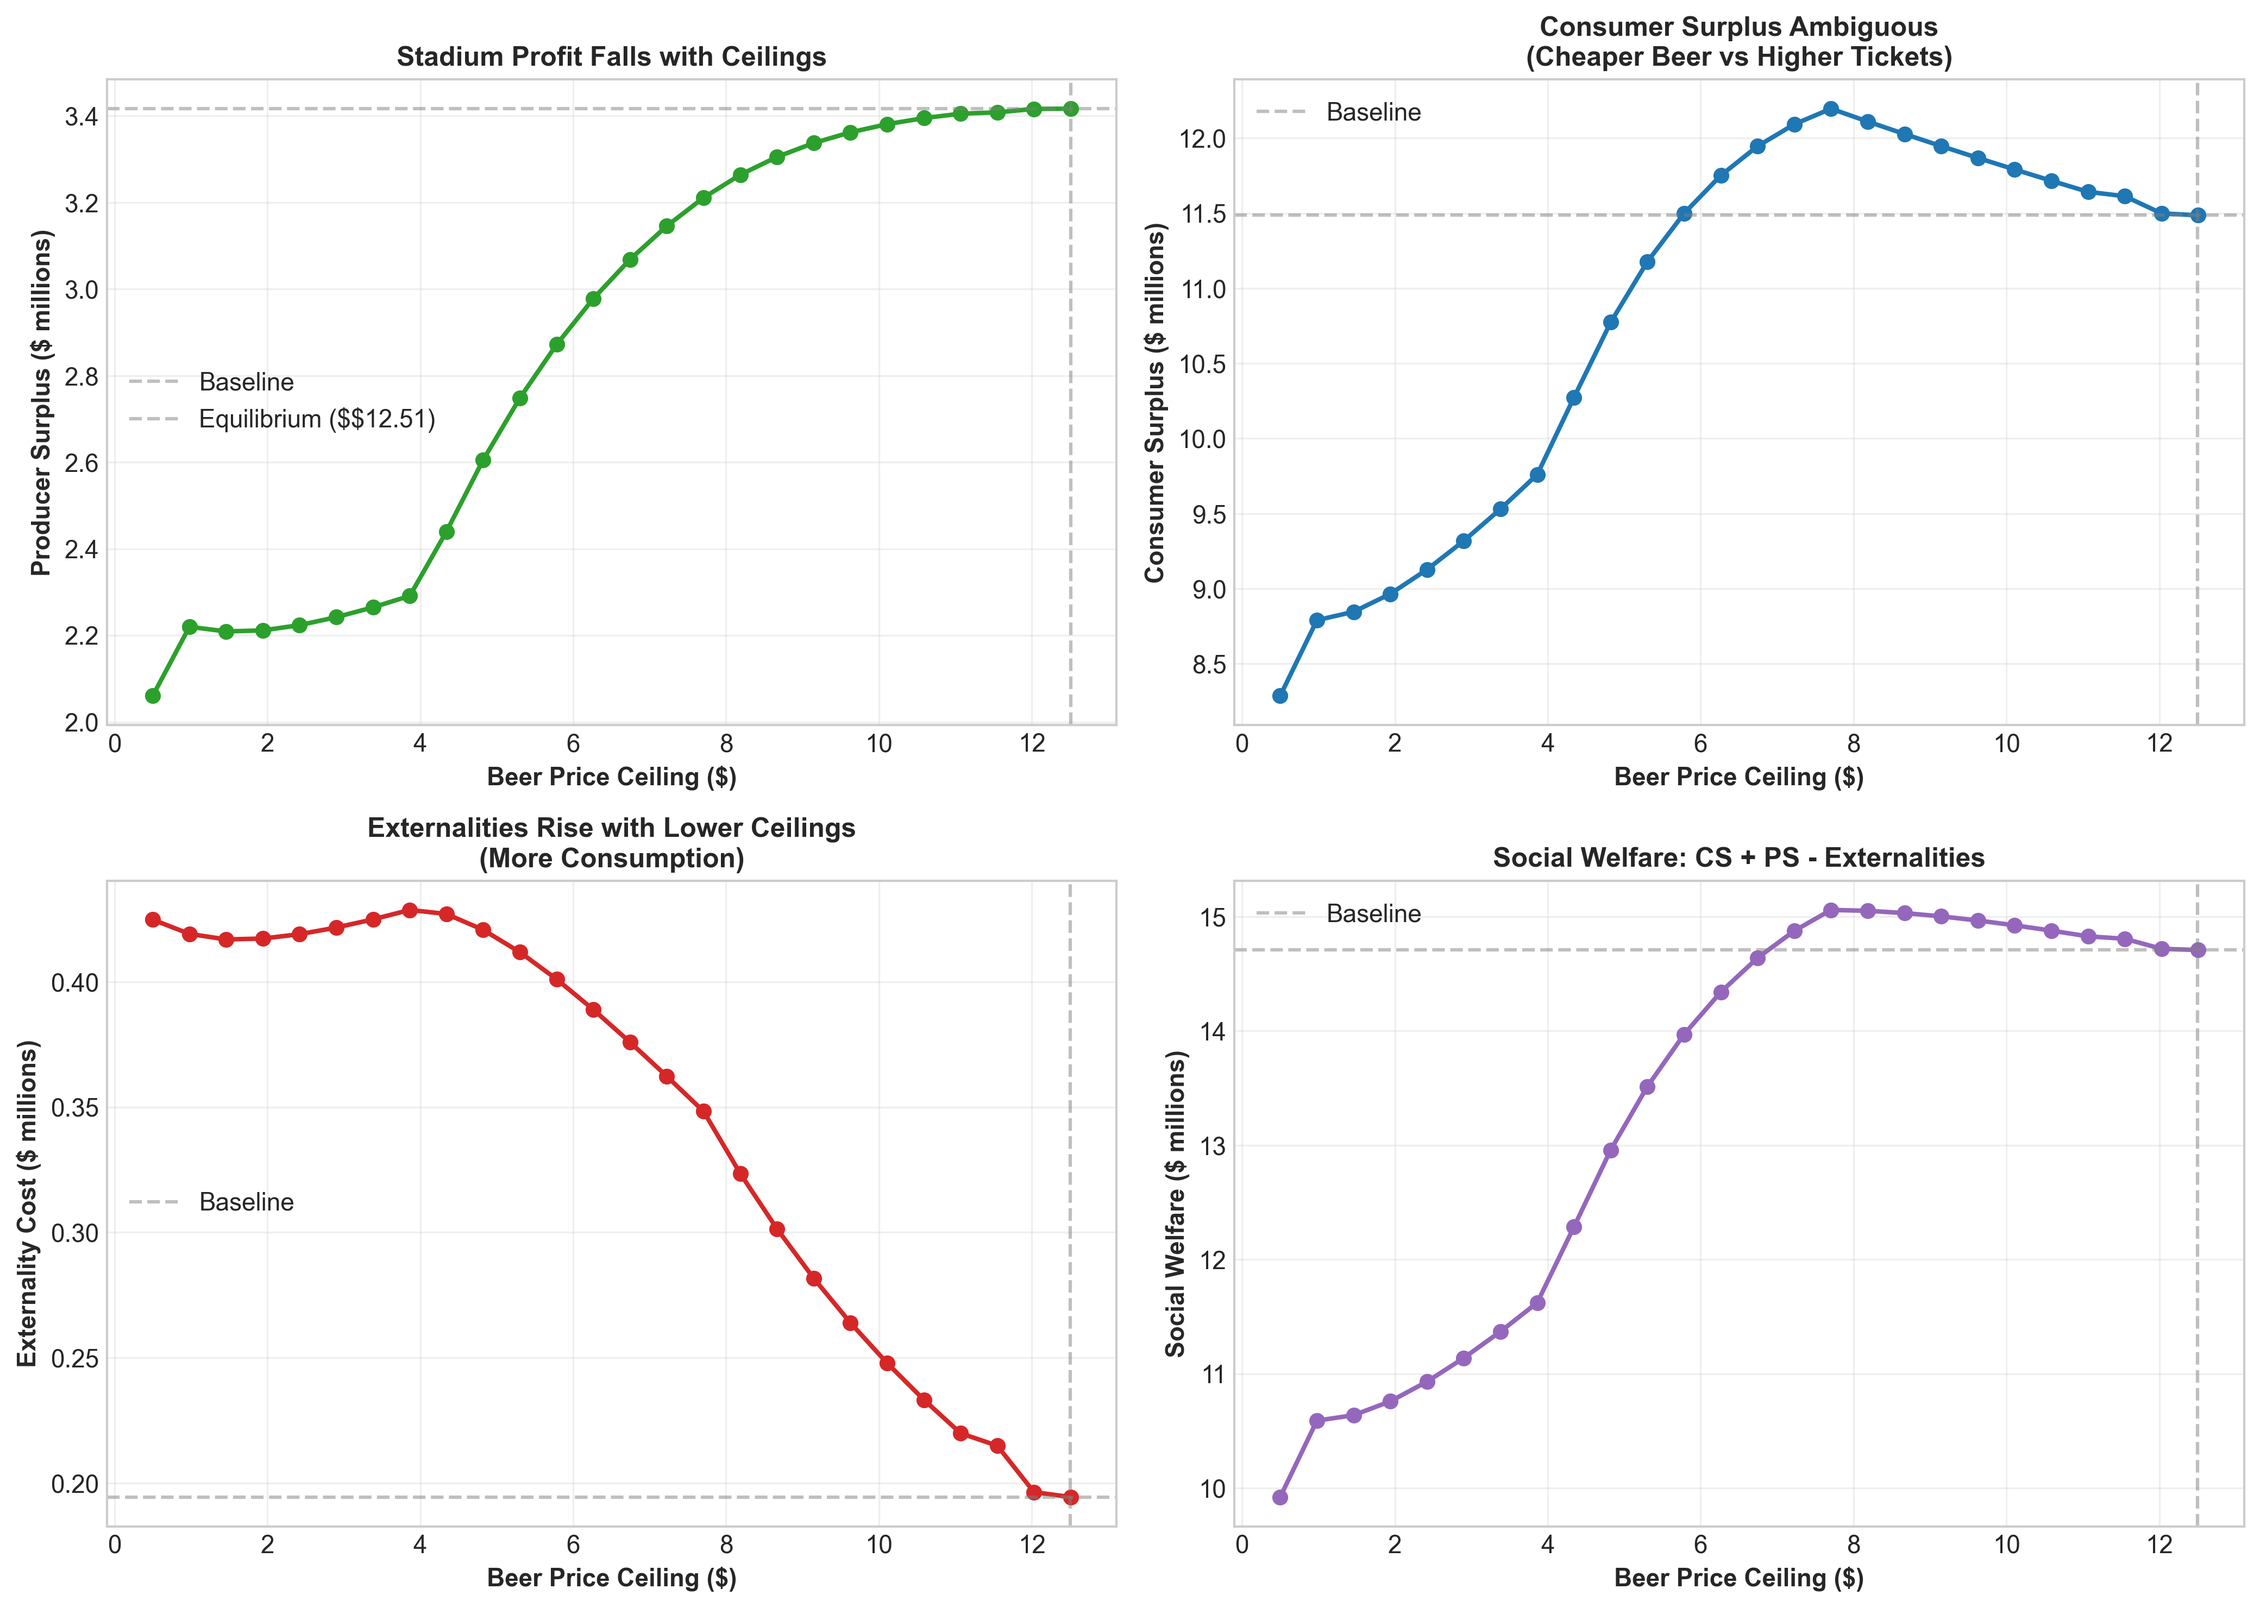
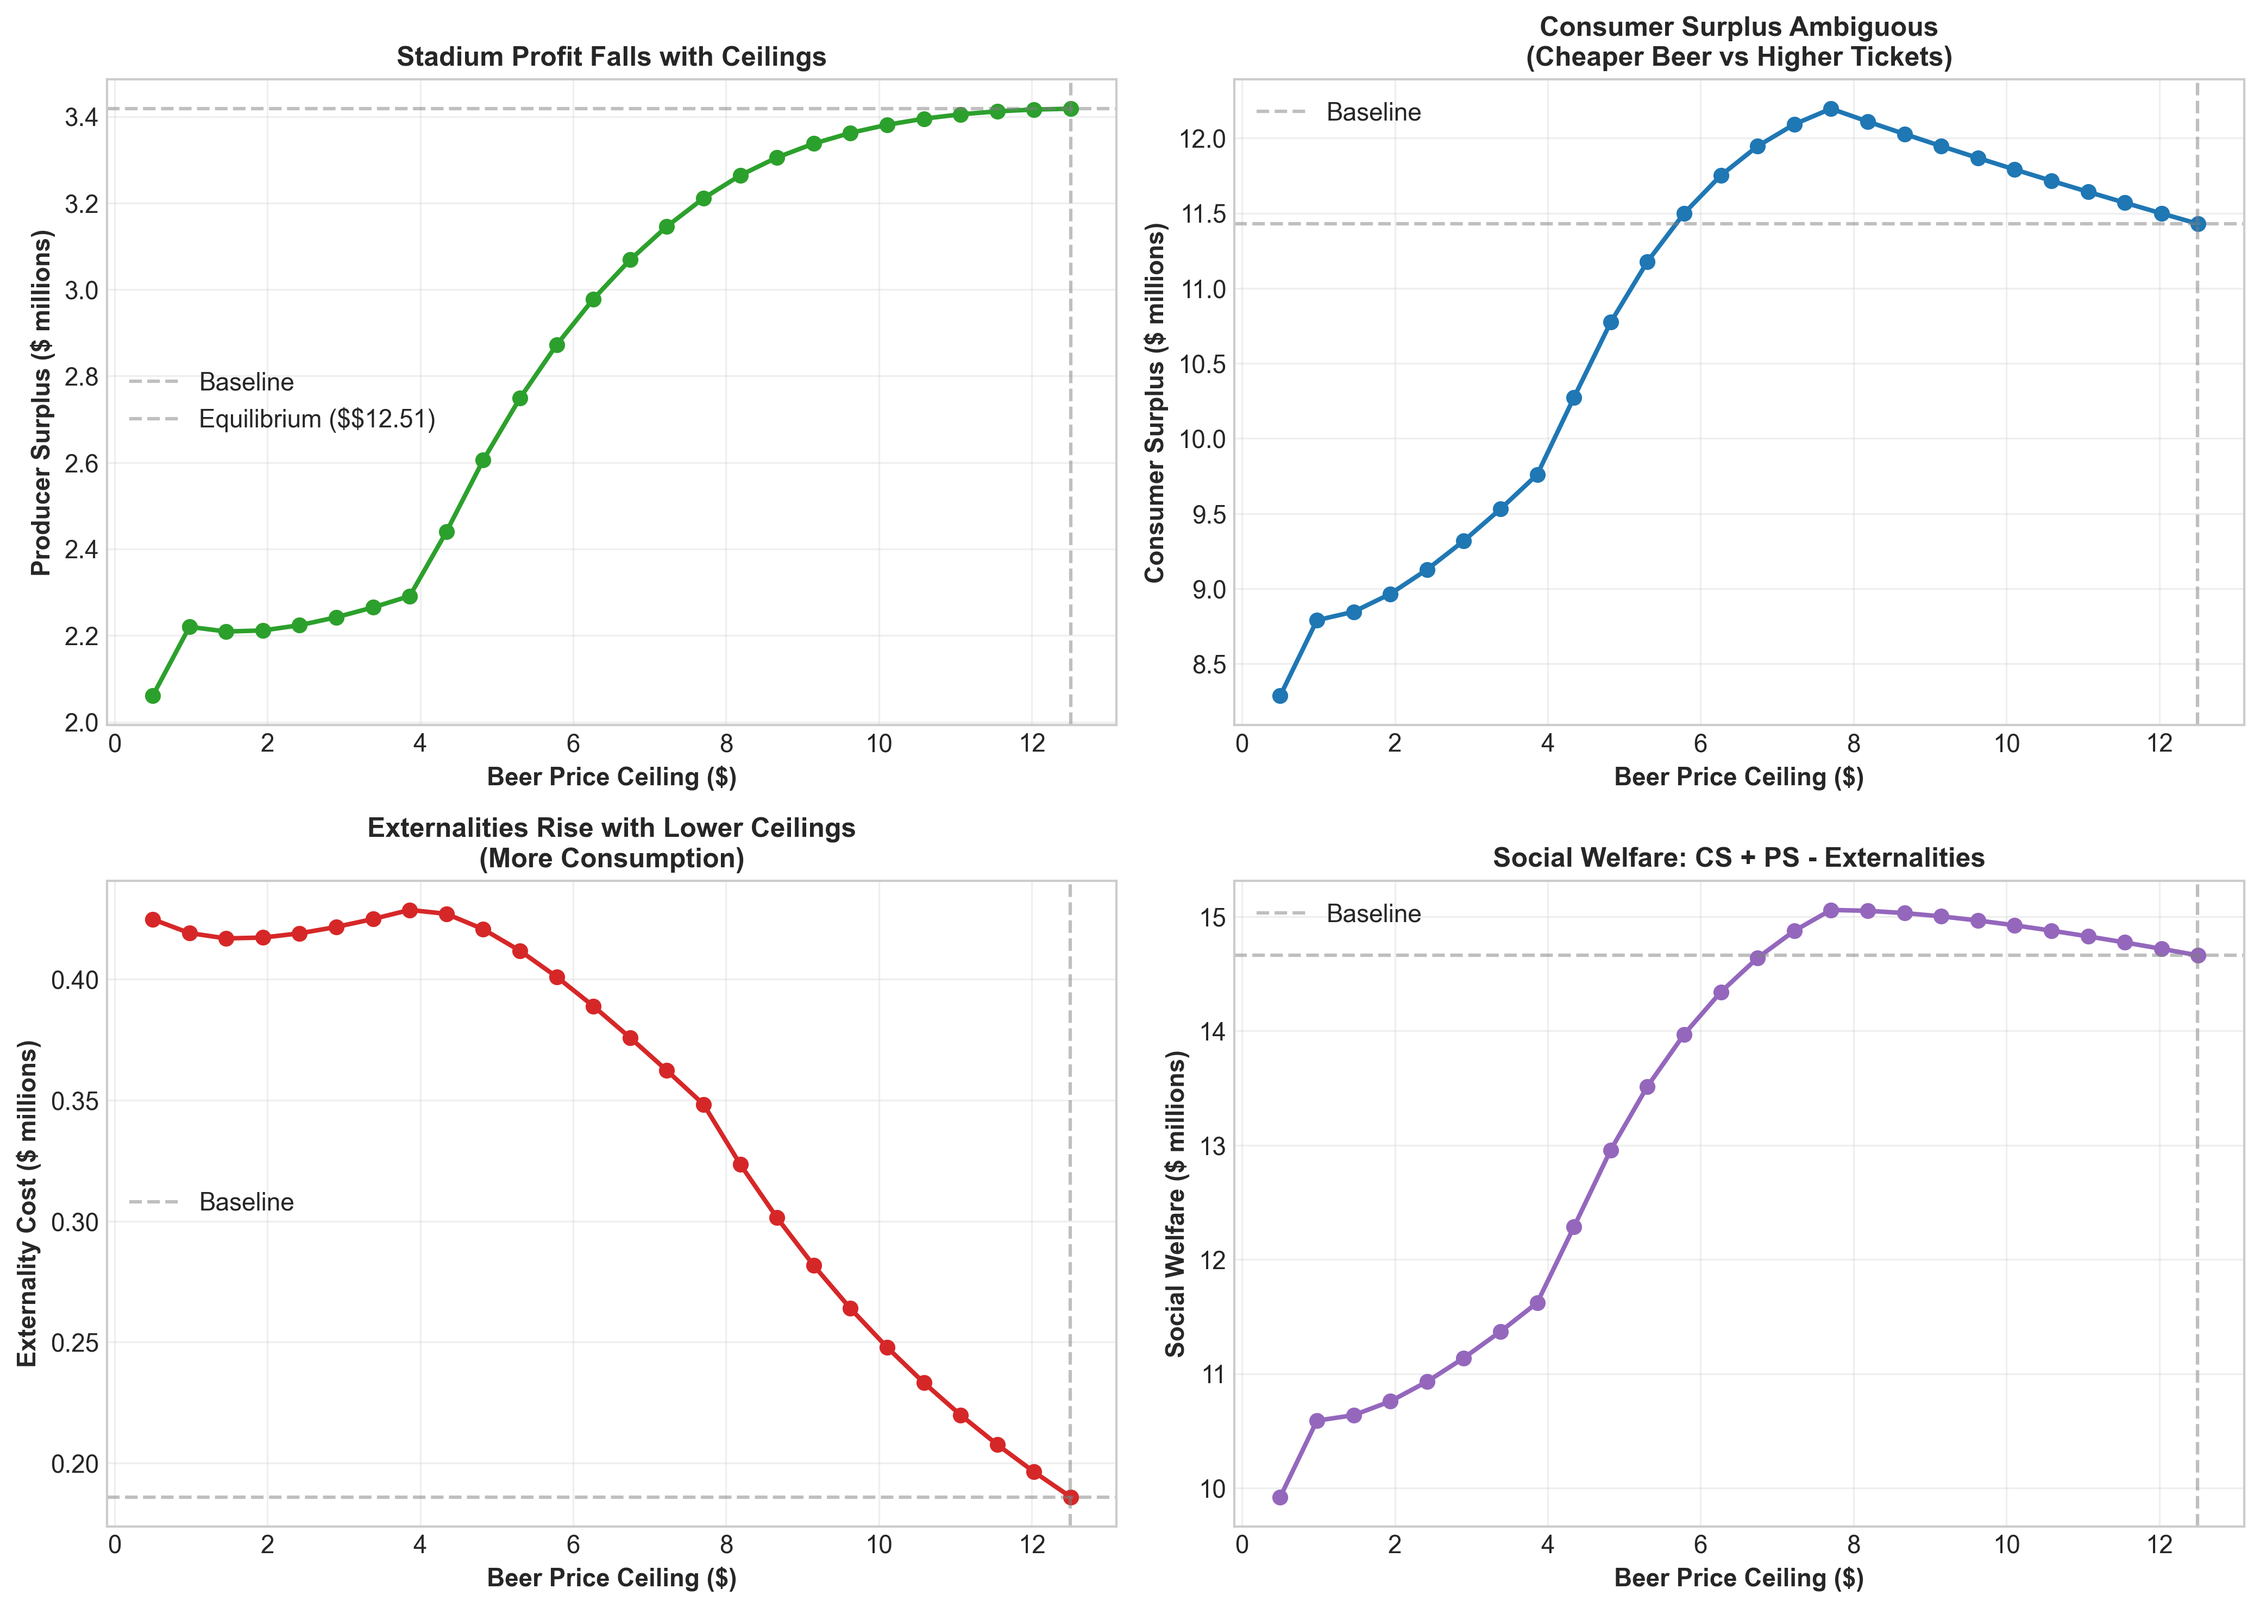
Refactor: Fix beer price ceiling constraint handling
User identified that beer price chart should be a straight line when
ceiling is binding, not curved. Investigation revealed optimization bug
where solver chose prices slightly below ceiling near equilibrium point.

Changes:
- Refactor optimal_pricing() to fix beer price BEFORE optimization
- When ceiling set: beer = min(ceiling, unconstrained_optimum)
- Then optimize ticket price conditional on fixed beer price
- More efficient (1D vs 2D optimization) and economically correct

Results:
- Beer price now always equals ceiling when binding (perfect 45° line)
- No numerical artifacts from constrained optimization
- All tests pass
- Charts regenerated with correct linear relationship

This fixes the economic logic: stadiums always charge the maximum allowed
price when demand exists at that price. Previous approach let optimizer
choose sub-ceiling prices due to numerical tolerance issues.

🤖 Generated with [Claude Code](https://claude.com/claude-code)

diff --git a/src/model.py b/src/model.py
@@ -295,35 +295,65 @@ class StadiumEconomicModel:
 
     def optimal_pricing(self, beer_price_control: float = None, ceiling_mode: bool = True) -> Tuple[float, float, Dict]:
         """Find profit-maximizing prices with heterogeneous consumers."""
-        def objective(prices):
-            ticket_p, beer_p = prices
-            if beer_p < 0 or ticket_p < 0:
+        beer_min = self.beer_cost + self.BEER_PRICE_MIN_MARGIN
+        ticket_bounds = (self.ticket_cost, self.TICKET_PRICE_MAX)
+
+        # Step 1: Determine beer price (before optimization)
+        if beer_price_control is not None and ceiling_mode:
+            # Get unconstrained beer optimum (cache to avoid recomputing)
+            if not hasattr(self, '_unconstrained_beer_optimum'):
+                def objective_both(prices):
+                    ticket_p, beer_p = prices
+                    if beer_p < 0 or ticket_p < 0:
+                        return 1e10
+                    result = self.stadium_revenue(ticket_p, beer_p)
+                    return -result['profit']
+
+                unconstrained = minimize(
+                    objective_both,
+                    x0=[self.base_ticket_price, self.base_beer_price],
+                    bounds=[ticket_bounds, (beer_min, self.BEER_PRICE_MAX)],
+                    method='L-BFGS-B'
+                )
+                self._unconstrained_beer_optimum = unconstrained.x[1]
+
+            # Beer price = min(ceiling, unconstrained_optimum)
+            optimal_beer = min(beer_price_control, self._unconstrained_beer_optimum)
+        else:
+            # No ceiling - optimize both prices together
+            def objective_both(prices):
+                ticket_p, beer_p = prices
+                if beer_p < 0 or ticket_p < 0:
+                    return 1e10
+                result = self.stadium_revenue(ticket_p, beer_p)
+                return -result['profit']
+
+            result = minimize(
+                objective_both,
+                x0=[self.base_ticket_price, self.base_beer_price],
+                bounds=[ticket_bounds, (beer_min, self.BEER_PRICE_MAX)],
+                method='L-BFGS-B'
+            )
+            optimal_ticket = result.x[0]
+            optimal_beer = result.x[1]
+            metrics = self.stadium_revenue(optimal_ticket, optimal_beer)
+            return optimal_ticket, optimal_beer, metrics
+
+        # Step 2: Optimize ticket price given fixed beer price
+        def objective_ticket(ticket_p):
+            if ticket_p < 0:
                 return 1e10
-            result = self.stadium_revenue(ticket_p, beer_p)
+            result = self.stadium_revenue(ticket_p, optimal_beer)
             return -result['profit']
 
-        # Set bounds
-        ticket_bounds = (self.ticket_cost, self.TICKET_PRICE_MAX)
-        beer_min = self.beer_cost + self.BEER_PRICE_MIN_MARGIN
-        beer_bounds = (beer_min, self.BEER_PRICE_MAX)
-
-        # Apply ceiling if specified
-        if beer_price_control is not None and ceiling_mode:
-            if beer_price_control < beer_min:
-                beer_bounds = (beer_price_control, beer_price_control)
-            else:
-                beer_bounds = (beer_min, beer_price_control)
-
-        # Optimize
         result = minimize(
-            objective,
-            x0=[self.base_ticket_price, self.base_beer_price],
-            bounds=[ticket_bounds, beer_bounds],
+            objective_ticket,
+            x0=self.base_ticket_price,
+            bounds=[ticket_bounds],
             method='L-BFGS-B'
         )
 
         optimal_ticket = result.x[0]
-        optimal_beer = result.x[1]
         metrics = self.stadium_revenue(optimal_ticket, optimal_beer)
 
         return optimal_ticket, optimal_beer, metrics
